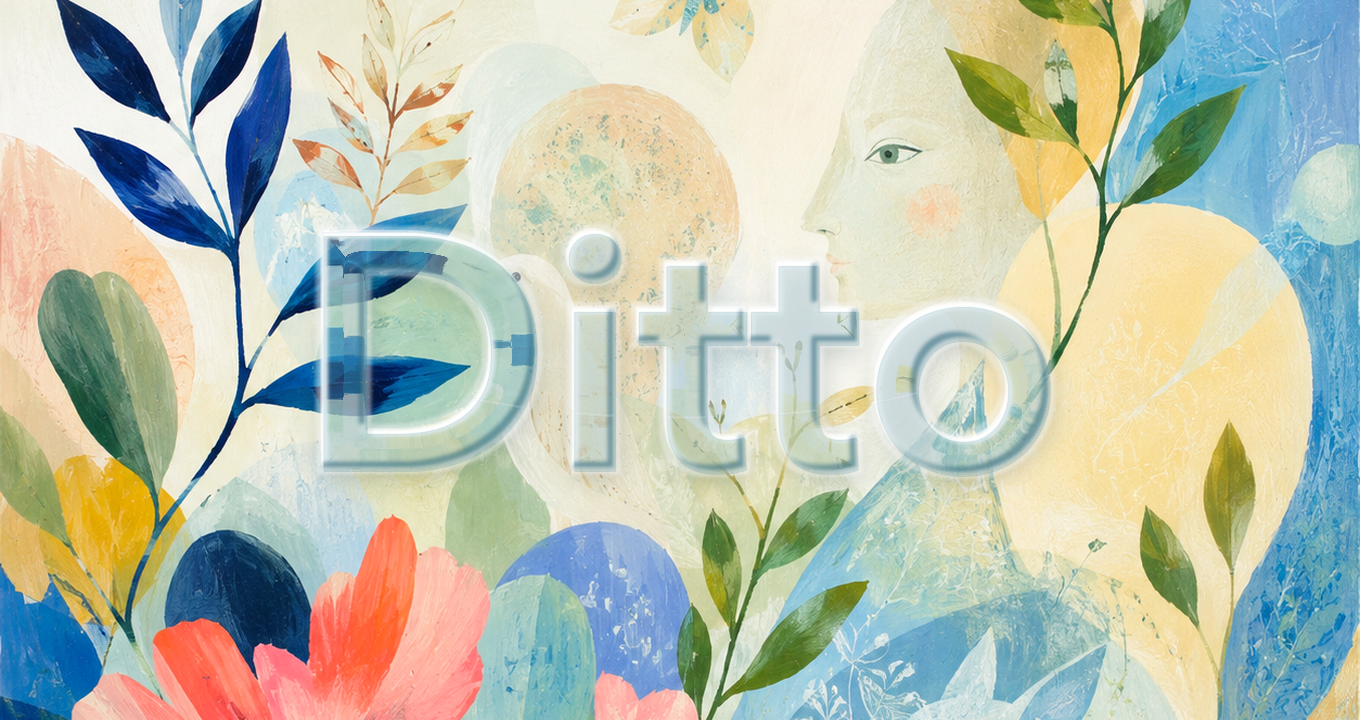
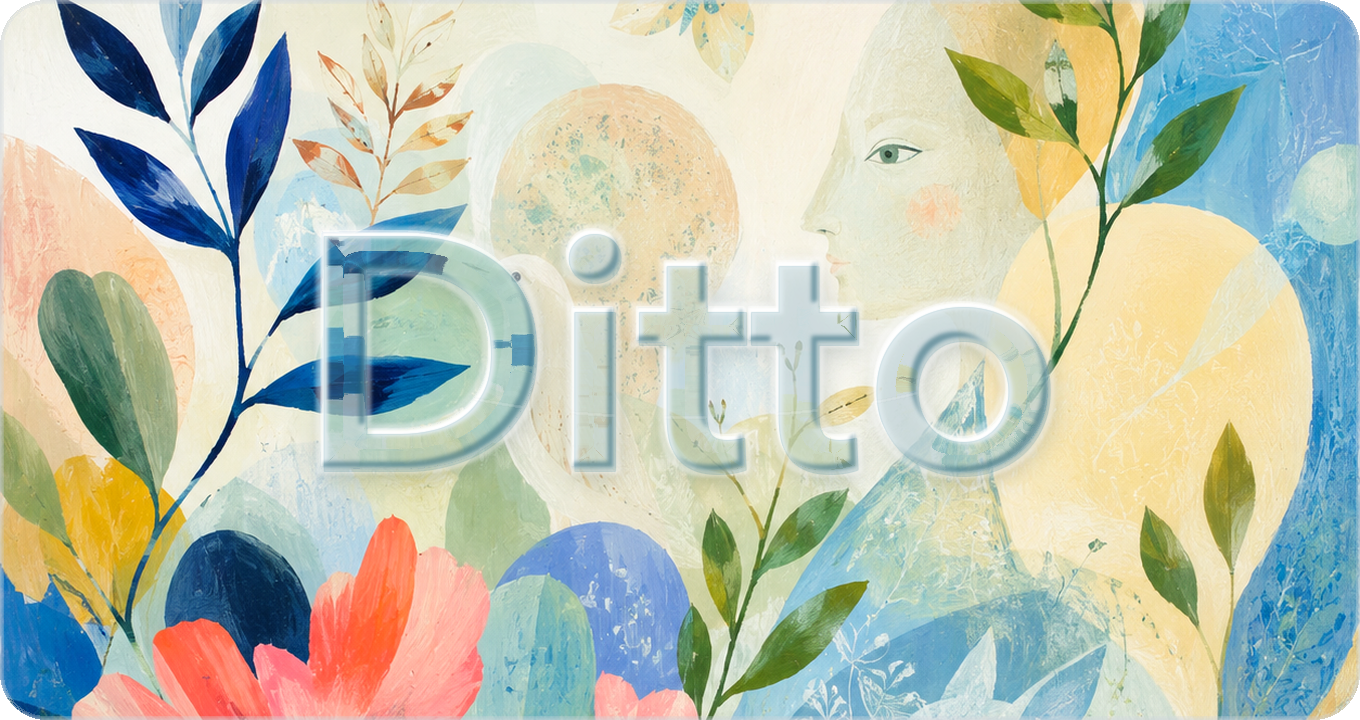
update readme

diff --git a/README.md b/README.md
@@ -17,33 +17,35 @@ project. It contains the full pipeline for behavioral foundation models, from
 midtraining on large-scale human-behavior data to task-specific RL,
 verbal-feedback post-training, expert distillation, and SOUL evaluation.
 
-<div align="left">
-  <div style="display:inline-block; width:360px; margin:10px 20px 10px 0; padding:14px; vertical-align:top; text-align:left; border:1px solid #d0d7de; border-radius:18px;">
-    <a href="README_DITTO.md">
-      <img src="assets/ditto-card.png" alt="Ditto" width="340" height="180" style="border-radius:12px; object-fit:cover;">
-    </a>
-    <h3>Ditto</h3>
-    <p><strong>Reinforcing Human Behavior Simulation via Verbal Feedback</strong></p>
-    <p>
-      <a href="README_DITTO.md">Doc</a> ·
-      <a href="http://arxiv.org/abs/2605.20506">Paper</a> ·
-      <a href="https://huggingface.co/sunweiwei/Ditto-8B">Model</a> ·
-      <a href="recipe/ditto">Recipe</a>
-    </p>
-  </div>
-  <div style="display:inline-block; width:360px; margin:10px 20px 10px 0; padding:14px; vertical-align:top; text-align:left; border:1px solid #d0d7de; border-radius:18px;">
-    <a href="assets/Building Foundation Models for Human Behavior Simulation.pdf">
-      <img src="assets/osim-card.png" alt="OdysSim" width="340" height="180" style="border-radius:12px; object-fit:cover;">
-    </a>
-    <h3>OdysSim</h3>
-    <p><strong>Building Foundation Models for Human Behavior Simulation</strong></p>
-    <p>
-      <a href="assets/Building Foundation Models for Human Behavior Simulation.pdf">Paper</a> ·
-      <a href="https://huggingface.co/collections/cmu-lti/odyssim">Models</a> ·
-      <a href="https://huggingface.co/datasets/cmu-lti/osim-mid-training">Data</a>
-    </p>
-  </div>
-</div>
+<table>
+  <tr>
+    <td width="50%" valign="top">
+      <a href="README_DITTO.md">
+        <img src="assets/ditto-card.png" alt="Ditto" width="100%">
+      </a>
+      <h3>Ditto</h3>
+      <p><strong>Reinforcing Human Behavior Simulation via Verbal Feedback</strong></p>
+      <p>
+        <a href="README_DITTO.md">Doc</a> ·
+        <a href="http://arxiv.org/abs/2605.20506">Paper</a> ·
+        <a href="https://huggingface.co/sunweiwei/Ditto-8B">Model</a> ·
+        <a href="recipe/ditto">Recipe</a>
+      </p>
+    </td>
+    <td width="50%" valign="top">
+      <a href="assets/Building Foundation Models for Human Behavior Simulation.pdf">
+        <img src="assets/osim-card.png" alt="OdysSim" width="100%">
+      </a>
+      <h3>OdysSim</h3>
+      <p><strong>Building Foundation Models for Human Behavior Simulation</strong></p>
+      <p>
+        <a href="assets/Building Foundation Models for Human Behavior Simulation.pdf">Paper</a> ·
+        <a href="https://huggingface.co/collections/cmu-lti/odyssim">Models</a> ·
+        <a href="https://huggingface.co/datasets/cmu-lti/osim-mid-training">Data</a>
+      </p>
+    </td>
+  </tr>
+</table>
 
 ## Benchmark
 
@@ -62,13 +64,9 @@ verbal-feedback post-training, expert distillation, and SOUL evaluation.
 - **Learning from verbal feedback**: efficient support for verbal-feedback RL,
   forward distillation, and reverse/on-policy distillation from LLM-judge
   critiques.
-- **Task-specific RL and expert distillation**: train one expert per SOUL task
-  with GRPO or verbal-feedback RL, then merge selected expert trajectories back
-  into one deployable model with SFT.
-- **Unified SOUL evaluation suite**: 20+ human-likeness tasks with matching
-  training environments, so evaluation and RL rollouts run on the same stack.
-- **Unified SFT/RL/evaluation framework**: midtraining, post-training, and
-  automatic/API-model evaluation share one code path as much as possible.
+- **Unified SOUL evaluation suite**: 20+ human-likeness tasks with
+  training environments.
+- **Unified SFT/RL/evaluation framework**: midtraining, post-training, and evaluation share one code path.
 
 ## News
 
@@ -80,7 +78,7 @@ verbal-feedback post-training, expert distillation, and SOUL evaluation.
 
 | Model | Link |
 |---|---|
-| OSim-8B | [cmu-lti OdysSim collection](https://huggingface.co/collections/cmu-lti/odyssim) |
+| OSim-8B | [OdysSim collection](https://huggingface.co/collections/cmu-lti/odyssim) |
 | Ditto-8B | [sunweiwei/Ditto-8B](https://huggingface.co/sunweiwei/Ditto-8B) |
 
 ## Setup